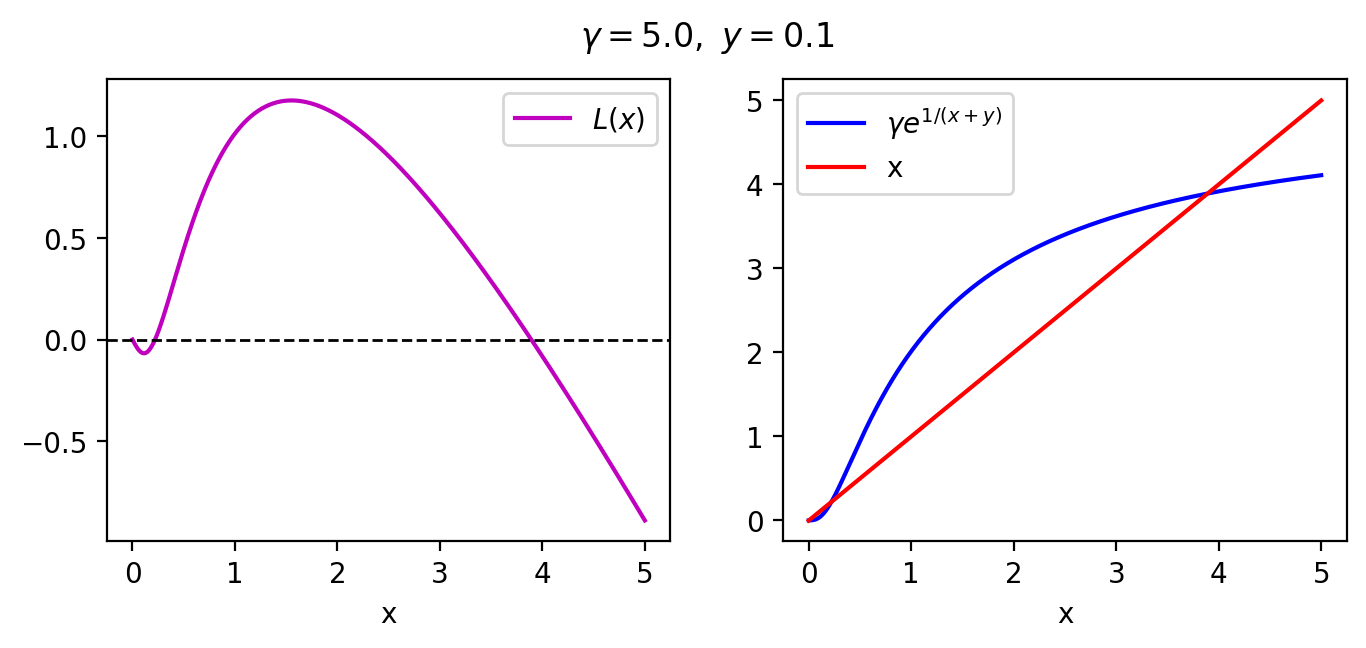
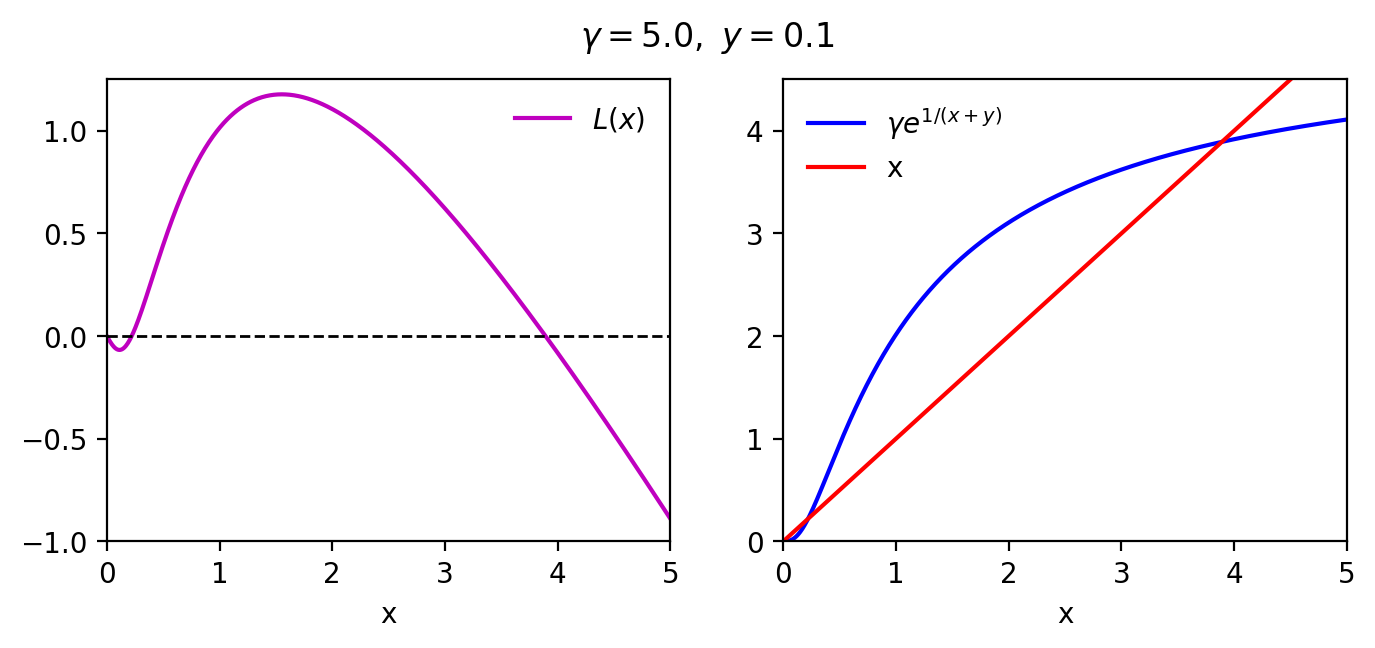
auto commit

diff --git a/bistable/defects/example_multistable.py b/bistable/defects/example_multistable.py
@@ -12,14 +12,19 @@ f = gamma * np.exp(-1/(x+y))
 
 ax[0].plot(x,f-x,c='m',label='$L(x)$')
 ax[0].axhline(0,lw=1,ls='--',c='k')
-ax[0].legend(loc='upper right')
+ax[0].legend(loc='upper right',frameon=False)
 
 ax[1].plot(x,f,c='b',label='$\gamma e^{1/(x+y)}$')
 ax[1].plot(x,x,c='r',label='x')
-ax[1].legend()
+ax[1].legend(frameon=False)
 
 ax[0].set_xlabel('x')
 ax[1].set_xlabel('x')
+
+# ax[1].set_yscale('log')
+
+ax[0].axis([0,gamma,-1,1.25])
+ax[1].axis([0,gamma,0,4.5])
 
 fig.suptitle('$\gamma=5.0,~y=0.1$')
 
